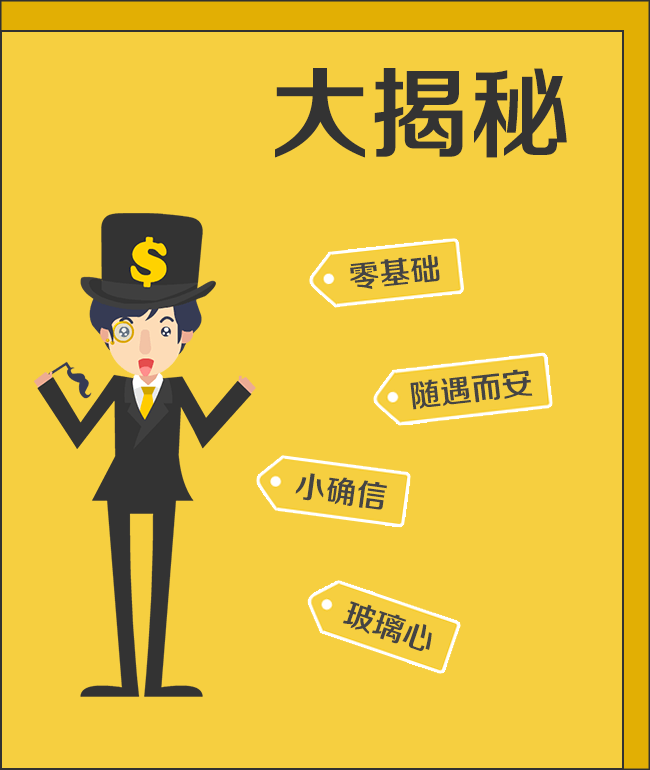
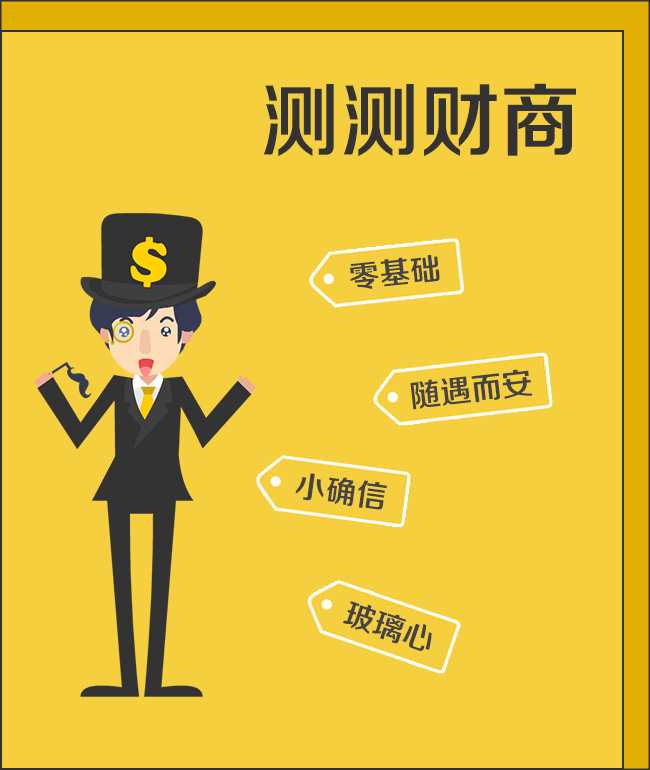
2017.3.20 理财揭秘 该为测测财商

Changed region(s): [[0.4, 0.0623, 0.8923, 0.2182]]

diff --git a/src/views/course/Navigator.vue b/src/views/course/Navigator.vue
@@ -20,7 +20,7 @@
           <div class="under-banner">
             <div v-touch:tap="goToNewertestStart" class="under-banner-item">
               <i class="under-banner-icon newer-test "></i>
-              <span class="under-banner-title">理财揭秘</span>
+              <span class="under-banner-title">测测财商</span>
             </div>
             <div v-touch:tap="goToNewerGuide" class="under-banner-item">
               <i class="under-banner-icon newer-guide"></i>
